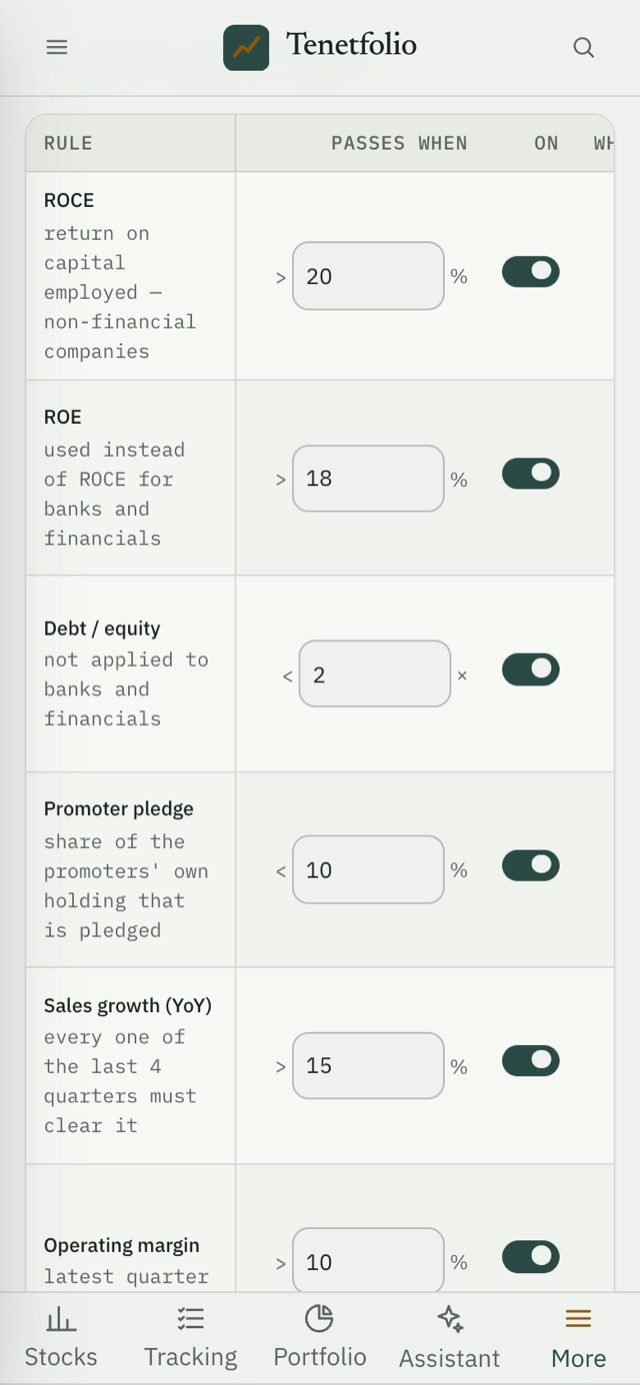
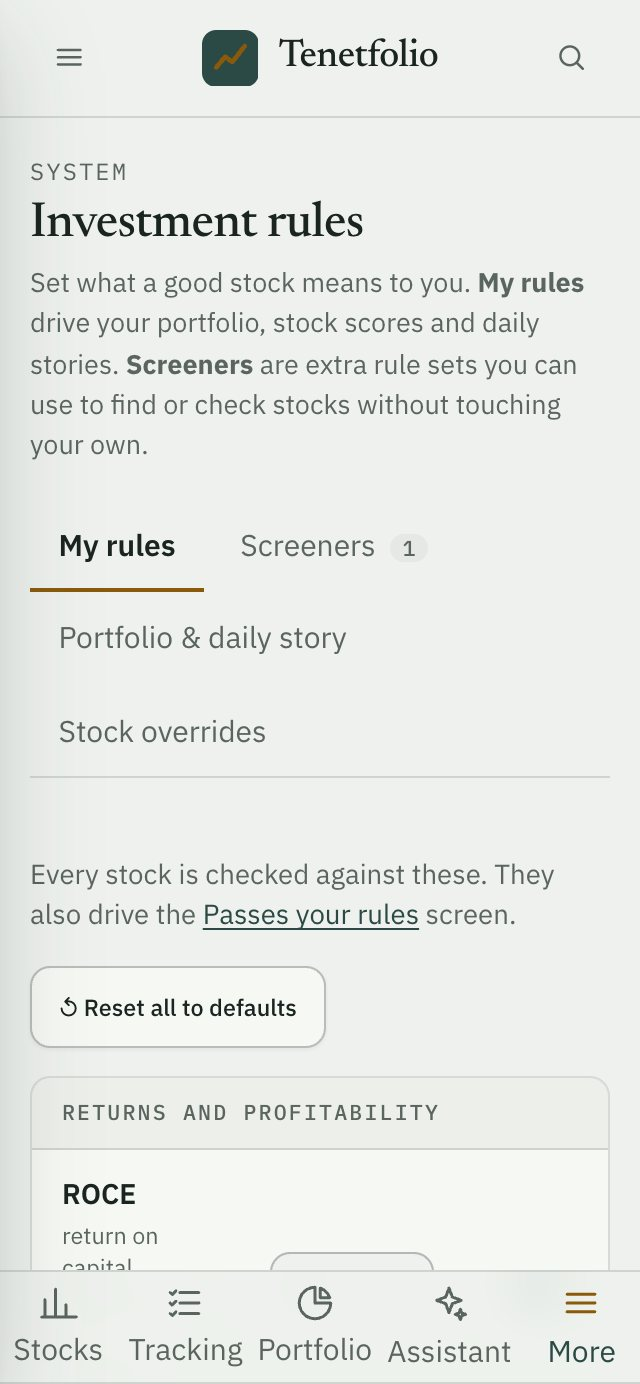
Quick start: ten steps covering the AI key, the tabbed rules page, screeners, Snapshot, Deep research and statement import; fresh phone screenshots

diff --git a/app/templates/guide.html b/app/templates/guide.html
@@ -14,7 +14,7 @@
 <section class="hero">
   <span class="eyebrow">Quick start</span>
   <h1 class="page-title">From your rules to your first position</h1>
-  <p class="page-sub">Seven short steps. Each one shows the real screen on a phone and takes you straight there. Your progress ticks off as you go.</p>
+  <p class="page-sub">Ten short steps. Each one shows the real screen on a phone and takes you straight there. Your progress ticks off as you go.</p>
   <div class="gd-prog" role="status"><b>{{ prog.count }} of {{ prog.total }}</b> done<span class="gd-bar"><i style="width: {{ (prog.count * 100 / prog.total)|round|int }}%"></i></span></div>
 </section>
 
@@ -32,61 +32,92 @@
 
   <article class="gd-step" id="g2">
     <div class="gd-text">
-      {{ head(2, 'rules', 'Set your rules', 'More → Investment rules') }}
-      <p>These are your own tests for a good business. Every screen and every stock page is judged against them.</p>
+      {{ head(2, 'aikey', 'Add your AI key', 'More → AI settings') }}
+      <p>Daily stories, Deep research and the assistant are written by an AI model. You bring the key, so you choose the model and the cost. Everything else works without it.</p>
       <ul class="gd-points">
-        <li>Switch a rule on or off.</li>
-        <li>Set its threshold, for example ROCE above 20%, debt/equity below 2×, sales growth above 15%.</li>
+        <li>Pick a provider (Groq, Gemini and OpenRouter have free options) and paste its key.</li>
+        <li>The key is stored encrypted and is never shown again.</li>
+        <li>Optional: set a fallback model so a free-tier limit doesn't stop your stories.</li>
       </ul>
-      <div class="gd-tip"><b>Start loose.</b> You can tighten the numbers later and every list updates.</div>
-      <div class="gd-actions"><a class="btn btn-primary" href="/rules">Open Investment rules</a></div>
+      <div class="gd-actions"><a class="btn btn-primary" href="/settings">Open AI settings</a></div>
     </div>
-    {{ shot('s2_rules.jpg', 'Investment rules list with ROCE, ROE, debt to equity, promoter pledge and sales growth thresholds') }}
+    {{ shot('s_ai.jpg', 'AI settings with free provider options and the model and key fields') }}
   </article>
 
   <article class="gd-step" id="g3">
     <div class="gd-text">
-      {{ head(3, 'screener', 'Check the screener', 'Stocks tab') }}
-      <p>Open <b>Passes your rules</b> to see only the stocks that clear the thresholds you just set.</p>
+      {{ head(3, 'rules', 'Set your rules', 'More → Investment rules → My rules') }}
+      <p>These are your own tests for a good business. Every stock page, the daily story and your portfolio are judged against them.</p>
+      <ul class="gd-points">
+        <li>Rules are grouped: returns, balance-sheet safety, growth, cash and valuation, ownership.</li>
+        <li>Change a number or switch a rule off. A bar at the bottom saves all your changes at once.</li>
+        <li>A rule you have changed shows a small tag and a ↺ to put it back.</li>
+      </ul>
+      <div class="gd-tip"><b>Start loose.</b> You can tighten the numbers later and every list updates.</div>
+      <div class="gd-actions"><a class="btn btn-primary" href="/rules">Open Investment rules</a></div>
+    </div>
+    {{ shot('s2_rules.jpg', 'Investment rules with My rules, Screeners, Portfolio and Stock overrides tabs and grouped thresholds') }}
+  </article>
+
+  <article class="gd-step" id="g4">
+    <div class="gd-text">
+      {{ head(4, 'myscreener', 'Make a screener', 'Investment rules → Screeners') }}
+      <p>A screener is a named copy of your rules, for hunting in a different style without touching the rules your portfolio follows.</p>
+      <ul class="gd-points">
+        <li>Name it, for example “Quality compounders”, and change only what differs, such as a stricter debt limit.</li>
+        <li>Use it in Analytics, on any stock page, or before a Deep research run.</li>
+        <li>On a tracked stock you can make it follow a screener until you switch it back.</li>
+      </ul>
+      <div class="gd-tip"><b>Optional.</b> Skip this until you have a second idea of what “good” means.</div>
+      <div class="gd-actions"><a class="btn btn-sm" href="/rules#screeners">Open Screeners</a></div>
+    </div>
+    {{ shot('s_screener.jpg', 'The Screeners tab with a screener card, Screen stocks and Edit rules buttons') }}
+  </article>
+
+  <article class="gd-step" id="g5">
+    <div class="gd-text">
+      {{ head(5, 'find', 'Find stocks', 'Stocks tab') }}
+      <p>Open <b>Passes your rules</b> to see only the stocks that clear the thresholds you set, or tap one of your own screeners (they carry a <em>Mine</em> tag).</p>
       <ul class="gd-points">
         <li>Pick India, US or Both.</li>
         <li>Prefer a ready-made idea? Try Steady compounders, Fast growers, Debt-free or Dividend payers.</li>
         <li>Tap any row to open the stock.</li>
       </ul>
-      <div class="gd-actions"><a class="btn btn-primary" href="/analytics">Open the screener</a></div>
+      <div class="gd-actions"><a class="btn btn-primary" href="/analytics">Open the screens</a></div>
     </div>
-    {{ shot('s3_screen.jpg', 'Stocks tab with screens such as Passes your rules, Steady compounders and Fast growers, and a list of matching stocks') }}
+    {{ shot('s3_screen.jpg', 'Stocks tab with ready-made screens, a Mine-tagged screener and its matching stocks') }}
   </article>
 
-  <article class="gd-step" id="g4">
+  <article class="gd-step" id="g6">
     <div class="gd-text">
-      {{ head(4, 'analyse', 'Analyse a stock', None) }}
-      <p>The top of the page gives you price, latest sales growth, operating margin, ROCE and P/E against its own history.</p>
-      <p><b>Your rules</b> then says how many pass and names the ones that don't. In this example Titan passes 9 of 10 and misses only the quick ratio.</p>
+      {{ head(6, 'analyse', 'Read a stock', None) }}
+      <p>The page opens on <b>Snapshot</b>: one screen of pictures, built from filed numbers. See it against the market, against your rules, who owns it and whether profit turns into cash.</p>
+      <p>A strip shows how many of your rules it passes and names the ones it misses. Use the <em>Screener</em> picker there to judge the same stock against another set of rules.</p>
       <ul class="gd-points">
-        <li>Use the chips (Performance, Financial health, Valuation…) to go deeper.</li>
+        <li>Use the chips (Performance, Financial health, Valuation…) for the full tables.</li>
         <li>Tap <em>Edit rules</em> if a miss tells you the rule, not the company, needs a rethink.</li>
       </ul>
     </div>
-    {{ shot('s4_stock.jpg', 'Titan Company stock page with price, revenue growth, operating margin, ROCE, P/E and a 9 of 10 rules summary') }}
+    {{ shot('s4_stock.jpg', 'Titan Company stock page with price, revenue growth, operating margin and ROCE') }}
   </article>
 
-  <article class="gd-step" id="g5">
+  <article class="gd-step" id="g7">
     <div class="gd-text">
-      {{ head(5, 'track', 'Add it to your tracker', None) }}
+      {{ head(7, 'track', 'Track it', None) }}
       <p>Choose <b>Watchlist</b> if you are only following it, then tap <b>Track</b>. A green “Tracking started” confirms it.</p>
       <div class="gd-tip"><b>Already own it?</b> Pick “Position” in the same menu instead.</div>
     </div>
     {{ shot('s5_tracked.jpg', 'Titan page after tapping Track, showing the Tracking started confirmation') }}
   </article>
 
-  <article class="gd-step" id="g6">
+  <article class="gd-step" id="g8">
     <div class="gd-text">
-      {{ head(6, 'story', 'Check the story', 'Tracking tab → the stock') }}
-      <p>Each tracked stock gets a plain-English story: what the latest numbers say, how it fares on your rules, and what needs your attention.</p>
+      {{ head(8, 'story', 'Check the story', 'Tracking tab → the stock') }}
+      <p>Each tracked stock gets a plain-English story: what the latest numbers say, how it fares on your rules, and what needs your attention. It runs daily and each entry ends with the figures that would improve or weaken the read.</p>
       <ul class="gd-points">
-        <li>Tap <em>Run analysis again</em> to refresh it on demand. It also runs daily.</li>
+        <li>Tap <em>Run analysis again</em> to refresh it on demand.</li>
         <li>Read the headline, then <em>Needs your attention</em> and the exit check.</li>
+        <li>Use <em>Rules</em> at the top to check this stock against one of your screeners instead.</li>
       </ul>
       <div class="gd-tip"><b>In this example:</b> “Watch — not actionable yet”. Nine rules pass, quick ratio doesn't, so keep watching.</div>
       <div class="gd-actions"><a class="btn btn-sm" href="/management">Open Tracking</a></div>
@@ -94,16 +125,31 @@
     {{ shot('s6_story.jpg', 'Titan story showing a Watch verdict, rules summary and exit check') }}
   </article>
 
-  <article class="gd-step" id="g7">
+  <article class="gd-step" id="g9">
     <div class="gd-text">
-      {{ head(7, 'position', 'Add your position', 'Story page → Journal tab') }}
+      {{ head(9, 'deep', 'Go deeper', 'Tracking tab → the stock → Deep research') }}
+      <p>For a stock you care about, <b>Deep research</b> reads the latest earnings calls, investor deck and results filing, then writes a sourced report in about a minute.</p>
+      <ul class="gd-points">
+        <li>Choose which rules to check it against, then press <em>Generate</em>.</li>
+        <li>Every claim cites a numbered source, every management quote is checked against the document, and the report says what it could not read.</li>
+        <li>Press <em>Save as PDF</em> to take it outside Tenetfolio. Your own rules and position are left out unless you tick the box.</li>
+      </ul>
+      <div class="gd-tip"><b>Needs an AI key</b> (step 2). You can start up to five reports a day.</div>
+      <div class="gd-actions"><a class="btn btn-sm" href="/management">Open Tracking</a></div>
+    </div>
+    {{ shot('s_deep.jpg', 'The Deep research page with the Check it against picker, Save as PDF and the start of a report') }}
+  </article>
+
+  <article class="gd-step" id="g10">
+    <div class="gd-text">
+      {{ head(10, 'position', 'Add your position', 'Story page → Journal tab') }}
       <p>Bought it? Log it in a few taps.</p>
       <ul class="gd-points">
         <li>Choose <em>Bought</em>, the date, shares and price per share.</li>
         <li>Add a one-line reason if you like. Your reasoning becomes part of the story.</li>
         <li>Tap <em>Add to journal</em>. Quantity and average cost update straight away.</li>
       </ul>
-      <div class="gd-tip"><b>Next time</b> it reads “Bought more”, and the daily analysis flags where your actions fit, or break, your own rules.</div>
+      <div class="gd-tip"><b>Many holdings?</b> Ask the Assistant to import a broker statement (Excel, CSV or PDF). You review every line before anything is saved. <b>Next time</b> it reads “Bought more”, and the daily analysis flags where your actions fit, or break, your own rules.</div>
       <div class="gd-actions"><a class="btn btn-primary" href="/management">Open Tracking</a></div>
     </div>
     <div class="gd-pair">
@@ -114,5 +160,5 @@
 
 </section>
 
-<p class="gd-foot">Titan Company is shown only as an example, using data as of 12 October 2026. Tenetfolio provides descriptive research and tracking tools, not investment advice. Check figures against company filings before you act.</p>
+<p class="gd-foot">Titan Company is shown only as an example, using data as of 16 October 2026. Tenetfolio provides descriptive research and tracking tools, not investment advice. Check figures against company filings before you act.</p>
 {% endblock %}

diff --git a/app/templates/analytics_landing.html b/app/templates/analytics_landing.html
@@ -24,8 +24,8 @@
   {% if guide %}
   <aside class="gd-card" aria-label="Quick start">
     <div class="gd-card-text">
-      <strong>New here? Seven steps from your rules to your first position.</strong>
-      <span>Set your rules, find stocks that pass, track one and keep its story.</span>
+      <strong>New here? Ten short steps from your rules to your first position.</strong>
+      <span>Add your AI key, set your rules, find stocks that pass, read one in depth, track it and keep its story.</span>
       <div class="gd-card-prog"><b>{{ guide.count }} of {{ guide.total }}</b> done<span class="gd-bar"><i style="width: {{ (guide.count * 100 / guide.total)|round|int }}%"></i></span></div>
     </div>
     <a class="btn btn-primary" href="/guide">{{ 'Continue' if guide.count > 1 else 'Start the quick start' }}</a>

diff --git a/app/routes/guide.py b/app/routes/guide.py
@@ -1,4 +1,4 @@
-"""Quick start: the seven-step walkthrough (sign in -> rules -> screener -> analyse -> track -> story -> position), reachable at /guide and
+"""Quick start: the ten-step walkthrough (sign in -> AI key -> rules -> own screener -> find -> read -> track -> story -> deep research -> position), reachable at /guide and
 offered as a dismissible card on the Stocks tab. Progress is read from what the user has actually done, never from checkboxes."""
 from fastapi import APIRouter, Request
 from fastapi.responses import HTMLResponse, RedirectResponse
@@ -12,25 +12,31 @@ router = APIRouter()
 # key, title, short line for the card, where it happens
 STEPS = [
     ("signin", "Sign in", "/analytics"),
+    ("aikey", "Add your AI key", "/settings"),
     ("rules", "Set your rules", "/rules"),
-    ("screener", "Check the screener", "/analytics"),
-    ("analyse", "Analyse a stock", "/analytics"),
-    ("track", "Add it to your tracker", "/management"),
+    ("myscreener", "Make a screener", "/rules#screeners"),
+    ("find", "Find stocks", "/analytics"),
+    ("analyse", "Read a stock", "/analytics"),
+    ("track", "Track it", "/management"),
     ("story", "Check the story", "/management"),
+    ("deep", "Go deeper", "/management"),
     ("position", "Add your position", "/management"),
 ]
 
 
 def progress(user_id: int) -> dict:
-    """Which steps the user has done. Tracking a stock implies they found and read one, so steps 3 and 4 follow from step 5."""
+    """Which steps the user has done. Tracking a stock implies they found and read one, so those two follow from tracking."""
     with get_users_conn() as u:
         rules = u.execute("SELECT 1 FROM framework_overrides WHERE scope = 'user' AND user_id = ? LIMIT 1", (user_id,)).fetchone() is not None
         track = u.execute("SELECT 1 FROM tracked_positions WHERE user_id = ? LIMIT 1", (user_id,)).fetchone() is not None
         story = u.execute("SELECT 1 FROM position_snapshots s JOIN tracked_positions t ON t.id = s.position_id WHERE t.user_id = ? LIMIT 1",
                           (user_id,)).fetchone() is not None
         position = u.execute("SELECT 1 FROM position_events WHERE user_id = ? AND event_type IN ('open', 'add') LIMIT 1", (user_id,)).fetchone() is not None
+        aikey = u.execute("SELECT 1 FROM user_provider_keys WHERE user_id = ? LIMIT 1", (user_id,)).fetchone() is not None
+        mine = u.execute("SELECT 1 FROM rule_sets WHERE user_id = ? LIMIT 1", (user_id,)).fetchone() is not None
+        deep = u.execute("SELECT 1 FROM research_reports WHERE user_id = ? AND status = 'success' LIMIT 1", (user_id,)).fetchone() is not None
         dismissed = u.execute("SELECT guide_dismissed_at IS NOT NULL FROM users WHERE id = ?", (user_id,)).fetchone()
-    done = {"signin": True, "rules": rules, "screener": track, "analyse": track, "track": track, "story": story, "position": position}
+    done = {"signin": True, "aikey": aikey, "rules": rules, "myscreener": mine, "find": track, "analyse": track, "track": track, "story": story, "deep": deep, "position": position}
     return {"done": done, "count": sum(done.values()), "total": len(STEPS), "dismissed": bool(dismissed and dismissed[0]),
             "next": next((k for k, _t, _h in STEPS if not done[k]), None)}
 
